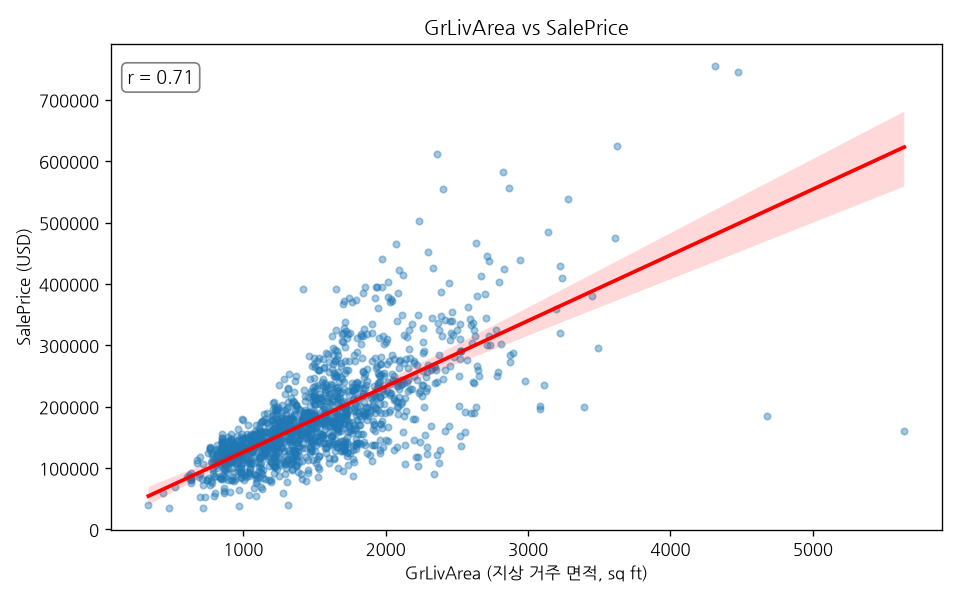
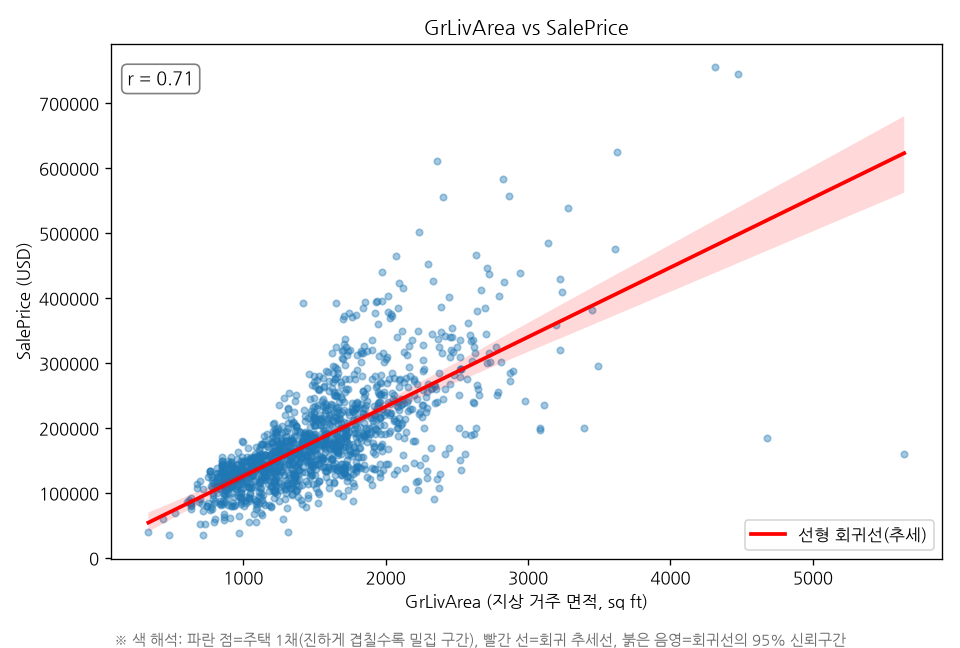
Add color-interpretation captions to task 1 plots
- boxplot: darker blue = higher quality grade
- scatter: legend for regression line + caption for point/band colors
- bar: viridis follows price rank (dark purple=high, yellow=low)
- heatmap: colorbar label + red/blue correlation direction note

diff --git a/260731/01_시각화/01_visualize.py b/260731/01_시각화/01_visualize.py
@@ -28,41 +28,52 @@ plt.close()
 print('저장: 01_saleprice_hist.png')
 
 # ② OverallQual별 SalePrice 박스플롯
-plt.figure(figsize=(9, 5))
+plt.figure(figsize=(9, 5.4))
 sns.boxplot(x='OverallQual', y='SalePrice', data=df, hue='OverallQual', palette='Blues', legend=False)
 plt.title('전반적 품질(OverallQual)별 SalePrice 분포')
 plt.xlabel('OverallQual (1~10)')
 plt.ylabel('SalePrice (USD)')
-plt.tight_layout()
+plt.figtext(0.5, 0.005,
+            '※ 색 해석: 파란색이 진할수록 품질 등급이 높음 (연한 파랑=저품질 1, 진한 파랑=고품질 10)',
+            ha='center', fontsize=9, color='dimgray')
+plt.tight_layout(rect=[0, 0.03, 1, 1])
 plt.savefig('02_overallqual_boxplot.png', dpi=120)
 plt.close()
 print('저장: 02_overallqual_boxplot.png')
 
 # ③ GrLivArea vs SalePrice 산점도 + 회귀선
-plt.figure(figsize=(8, 5))
+plt.figure(figsize=(8, 5.4))
 sns.regplot(x='GrLivArea', y='SalePrice', data=df,
-            scatter_kws={'alpha': 0.4, 's': 15}, line_kws={'color': 'red'})
+            scatter_kws={'alpha': 0.4, 's': 15, 'label': '개별 주택'},
+            line_kws={'color': 'red', 'label': '선형 회귀선(추세)'})
 r_val = df['GrLivArea'].corr(df['SalePrice'])
 plt.text(0.02, 0.95, f'r = {r_val:.2f}', transform=plt.gca().transAxes,
          fontsize=11, va='top', bbox=dict(boxstyle='round', fc='white', ec='gray'))
 plt.title('GrLivArea vs SalePrice')
 plt.xlabel('GrLivArea (지상 거주 면적, sq ft)')
 plt.ylabel('SalePrice (USD)')
-plt.tight_layout()
+plt.legend(loc='lower right')
+plt.figtext(0.5, 0.005,
+            '※ 색 해석: 파란 점=주택 1채(진하게 겹칠수록 밀집 구간), 빨간 선=회귀 추세선, 붉은 음영=회귀선의 95% 신뢰구간',
+            ha='center', fontsize=9, color='dimgray')
+plt.tight_layout(rect=[0, 0.03, 1, 1])
 plt.savefig('03_grlivarea_scatter.png', dpi=120)
 plt.close()
 print('저장: 03_grlivarea_scatter.png')
 
 # ④ Neighborhood별 평균 SalePrice 막대그래프 (값 정렬)
 nbhd_mean = df.groupby('Neighborhood')['SalePrice'].mean().sort_values(ascending=False)
-plt.figure(figsize=(11, 5))
+plt.figure(figsize=(11, 5.4))
 sns.barplot(x=nbhd_mean.index, y=nbhd_mean.values, hue=nbhd_mean.index,
             palette='viridis', legend=False)
 plt.xticks(rotation=75)
 plt.title('지역(Neighborhood)별 평균 SalePrice')
 plt.xlabel('Neighborhood')
 plt.ylabel('평균 SalePrice (USD)')
-plt.tight_layout()
+plt.figtext(0.5, 0.005,
+            '※ 색 해석: 평균가 순위를 따라 어두운 보라(고가 지역)→노랑(저가 지역)으로 변화 (viridis 팔레트, 막대 높이와 동일 정보)',
+            ha='center', fontsize=9, color='dimgray')
+plt.tight_layout(rect=[0, 0.03, 1, 1])
 plt.savefig('04_neighborhood_bar.png', dpi=120)
 plt.close()
 print('저장: 04_neighborhood_bar.png')
@@ -70,11 +81,15 @@ print('저장: 04_neighborhood_bar.png')
 # ⑤ (선택) 수치형 feature 상관 히트맵
 num_df = df.select_dtypes('number').drop(columns=['Id'])
 corr = num_df.corr()
-plt.figure(figsize=(10, 8))
-sns.heatmap(corr, annot=True, fmt='.2f', cmap='coolwarm', center=0,
-            square=True, linewidths=0.5, annot_kws={'size': 7})
+plt.figure(figsize=(10, 8.4))
+ax = sns.heatmap(corr, annot=True, fmt='.2f', cmap='coolwarm', center=0,
+                 square=True, linewidths=0.5, annot_kws={'size': 7},
+                 cbar_kws={'label': '피어슨 상관계수 r'})
 plt.title('수치형 Feature 상관 히트맵')
-plt.tight_layout()
+plt.figtext(0.5, 0.005,
+            '※ 색 해석: 빨강=양의 상관(함께 증가), 파랑=음의 상관(반대로 움직임), 색이 진할수록 관계가 강함 (|r|≥0.8 진한 빨강 = 다중공선성 위험)',
+            ha='center', fontsize=9, color='dimgray')
+plt.tight_layout(rect=[0, 0.02, 1, 1])
 plt.savefig('05_corr_heatmap.png', dpi=120)
 plt.close()
 print('저장: 05_corr_heatmap.png')
